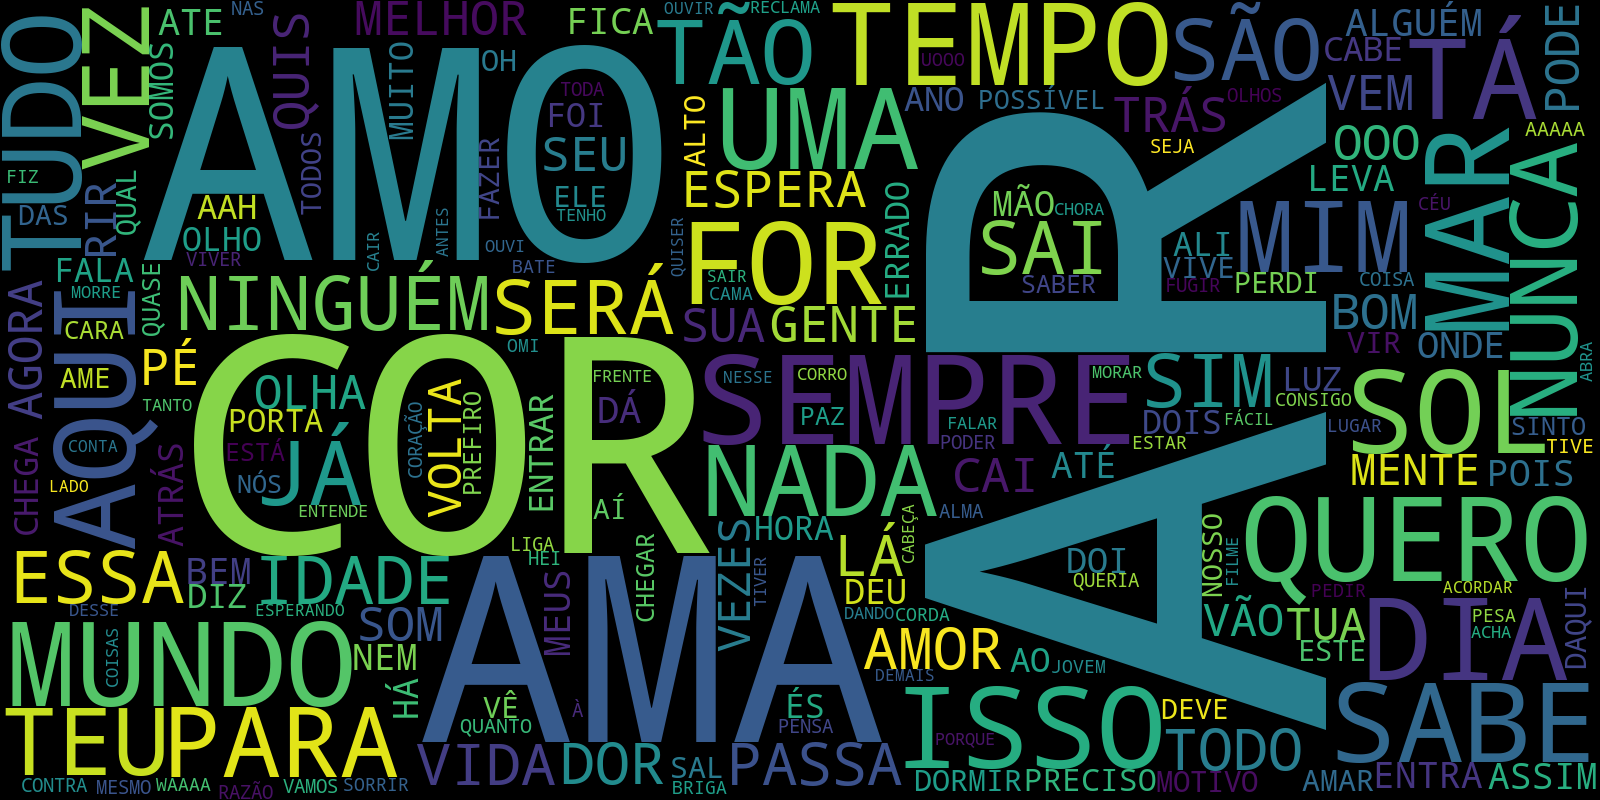
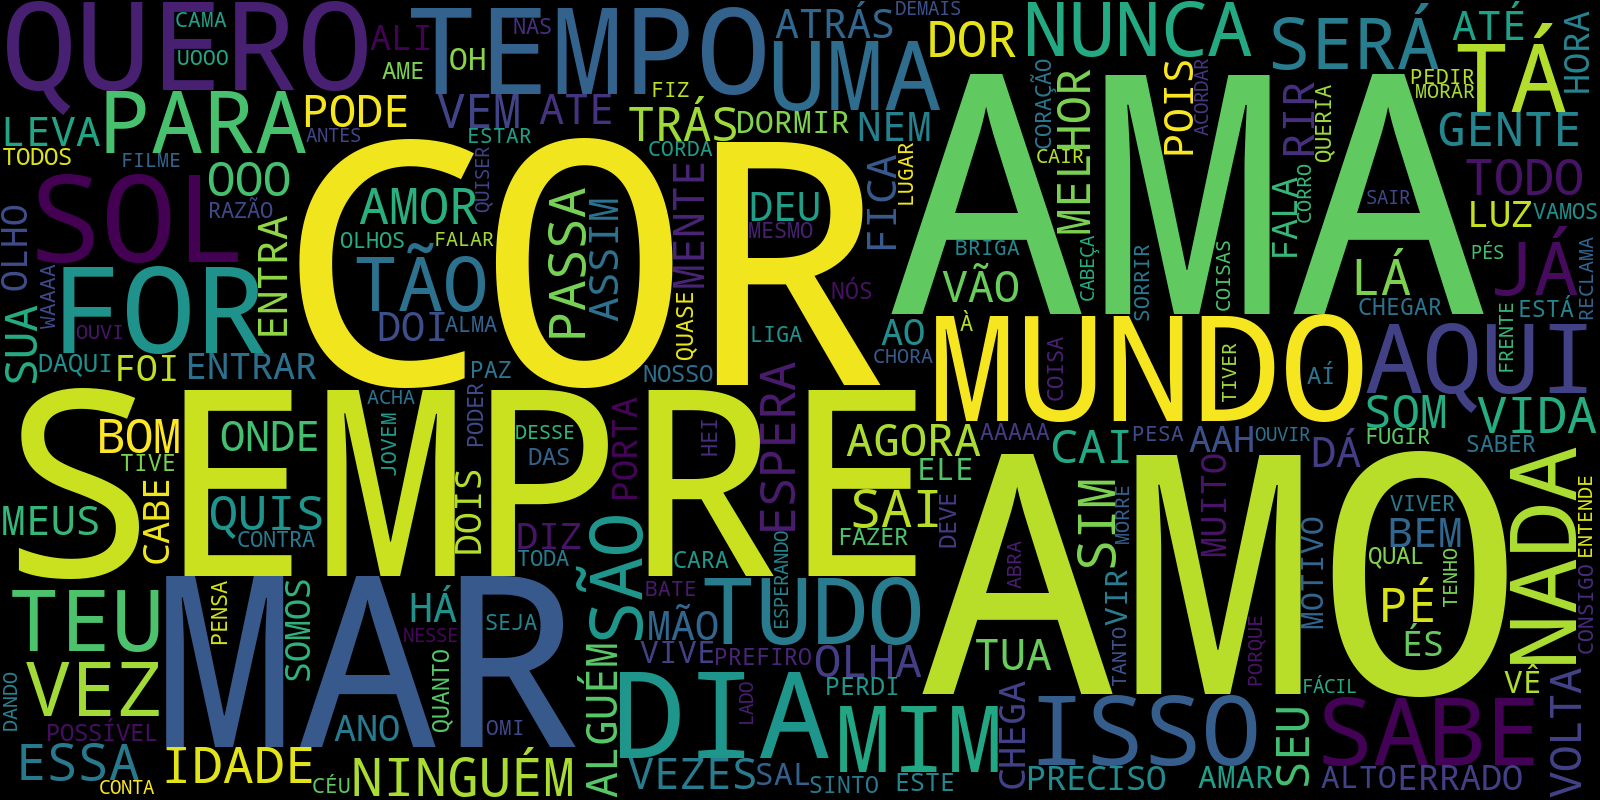
Imagens e códigos
Adicionando alguns prints para deixar resultados mais fáceis de entender.

diff --git a/source/questions.py b/source/questions.py
@@ -347,7 +347,7 @@ remover = ['A','E','O','DE','SE','QUE','EU','TE','DO','EM','ME','TA','OS','AS',
            'VOCÊ','NA','HA','IA','COM','VI','Ó','SER','SEM','CON','SI','TU','MEU',
            'TEM','SÓ','OI','LI','AA','DEI','VER','VAI','PAR','POR','MAIS','FAZ','PRO',
            'NOS','AH','TER','VOU','ERA','SEI','SOU','DOS','ESTA','DAR','MAS','DEIXA','ESSE',
-           'ELA','QUER','COMO','QUANDO','MINHA','QUEM']
+           'ELA','QUER','COMO','QUANDO','MINHA','QUEM','AR']
 
 for i in remover:
     try:
@@ -565,12 +565,12 @@ for i in stringclearList:
     palavras = bigstring1.split()
     
     remover = ['A','E','O','DE','SE','QUE','EU','TE','DO','EM','ME','TA','OS','AS',
-               'É','NÃO','VO','TO','DA','SO','EI','AI','IR','PRA','OU','NO','UM','CÊ',
-               'VOCÊ','NA','HA','IA','COM','VI','Ó','SER','SEM','CON','SI','TU','MEU',
-               'TEM','SÓ','OI','LI','AA','DEI','VER','VAI','PAR','POR','MAIS','FAZ','PRO',
-               'NOS','AH','TER','VOU','ERA','SEI','SOU','DOS','ESTA','DAR','MAS','DEIXA','ESSE',
-               'ELA','QUER','COMO','QUANDO','MINHA','QUEM', 'OH', 'FOR', 'DEVE', 'TÁ', 'AÍ',
-               'TÃO', 'AAAAA', 'MIM', 'WAAAA', 'OOO', 'UOOO', 'AAAAAH', 'JÁ']
+                'É','NÃO','VO','TO','DA','SO','EI','AI','IR','PRA','OU','NO','UM','CÊ',
+                'VOCÊ','NA','HA','IA','COM','VI','Ó','SER','SEM','CON','SI','TU','MEU',
+                'TEM','SÓ','OI','LI','AA','DEI','VER','VAI','PAR','POR','MAIS','FAZ','PRO',
+                'NOS','AH','TER','VOU','ERA','SEI','SOU','DOS','ESTA','DAR','MAS','DEIXA','ESSE',
+                'ELA','QUER','COMO','QUANDO','MINHA','QUEM', 'OH', 'FOR', 'DEVE', 'TÁ', 'AÍ',
+                'TÃO', 'AAAAA', 'MIM', 'WAAAA', 'OOO', 'UOOO', 'AAAAAH', 'JÁ']
 
     for i in remover:
         try:
@@ -613,6 +613,8 @@ for i in df1['Album']:
     
     n12 = n12 + 1
 
+print("Analisando os dataframes acima, percebe-se que o título do álbum não é tema recorrente, com exceção para o álbum 'Rogério'.")
+
 print("----" * 10)
 
 # Titulo das músicas são tema recorente nas letras?
@@ -636,7 +638,7 @@ for i in stringclear1:
     for j in remover:
         try:
             while True:
-               stringclear1[n13].remove(j)
+                stringclear1[n13].remove(j)
         except:
             pass
         
@@ -660,12 +662,12 @@ for i in stringclear2:
     stringclear2[n14] = stringclear2[n14].split()
     
     remover = ['A','E','O','DE','SE','QUE','EU','TE','DO','EM','ME','TA','OS','AS',
-               'É','VO','TO','DA','SO','EI','AI','IR','PRA','OU','NO','UM','CÊ',
-               'VOCÊ','NA','HA','IA','COM','VI','Ó','SER','SEM','CON','SI','TU','MEU',
-               'TEM','SÓ','OI','LI','AA','DEI','VER','VAI','PAR','MAIS','FAZ','PRO',
-               'NOS','AH','TER','VOU','ERA','SEI','SOU','DOS','ESTA','DAR','MAS','DEIXA','ESSE',
-               'QUER','QUANDO','MINHA','QUEM', 'OH', 'FOR', 'DEVE', 'TÁ', 'AÍ',
-               'TÃO', 'AAAAA', 'MIM', 'WAAAA', 'OOO', 'UOOO', 'AAAAAH', 'JÁ']
+                'É','VO','TO','DA','SO','EI','AI','IR','PRA','OU','NO','UM','CÊ',
+                'VOCÊ','NA','HA','IA','COM','VI','Ó','SER','SEM','CON','SI','TU','MEU',
+                'TEM','SÓ','OI','LI','AA','DEI','VER','VAI','PAR','MAIS','FAZ','PRO',
+                'NOS','AH','TER','VOU','ERA','SEI','SOU','DOS','ESTA','DAR','MAS','DEIXA','ESSE',
+                'QUER','QUANDO','MINHA','QUEM', 'OH', 'FOR', 'DEVE', 'TÁ', 'AÍ',
+                'TÃO', 'AAAAA', 'MIM', 'WAAAA', 'OOO', 'UOOO', 'AAAAAH', 'JÁ']
 
     for j in remover:
         try:
@@ -697,10 +699,12 @@ for i in df2['Music']:
     
     n15 = n15 + 1
 
+print("Ao analisar os DataFrames acima, percebe-se que o título das músicas é tema recorrente nas letras.")
+
 print("----" * 10)
 
-#Conjunto de perguntas 3 - A primeira pergunta está na parte anterior
-#(Médias do tamanho das músicas por álbum)
+# Conjunto de perguntas 3 - A primeira pergunta está na parte anterior
+# (Médias do tamanho das músicas por álbum)
 
 #Média do tempo das músicas
 print("Média do tempo das músicas na discografia: ", round(df2['Time'].mean(),2),'\n')
